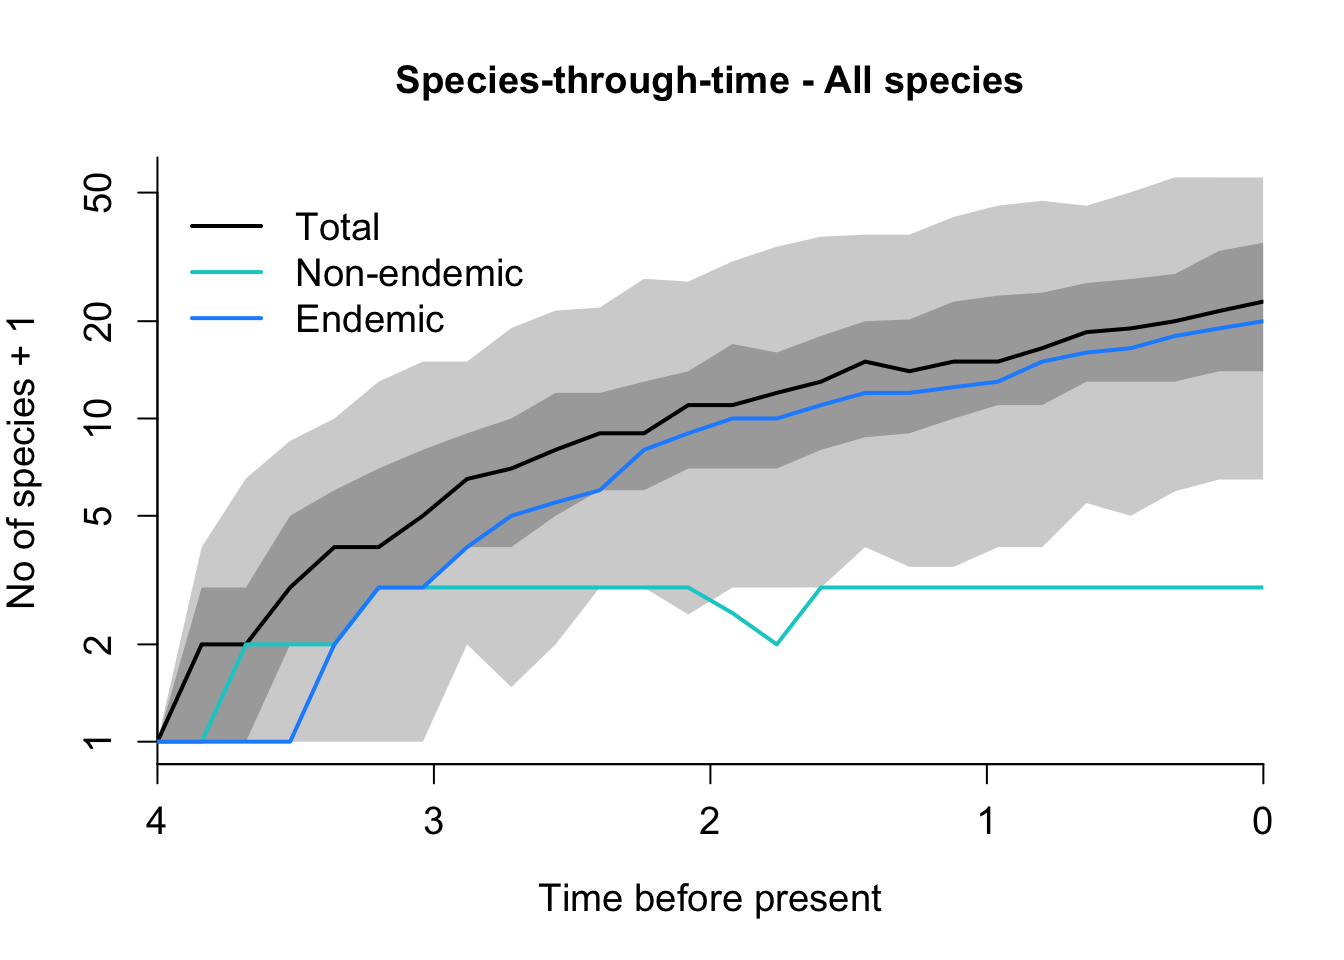
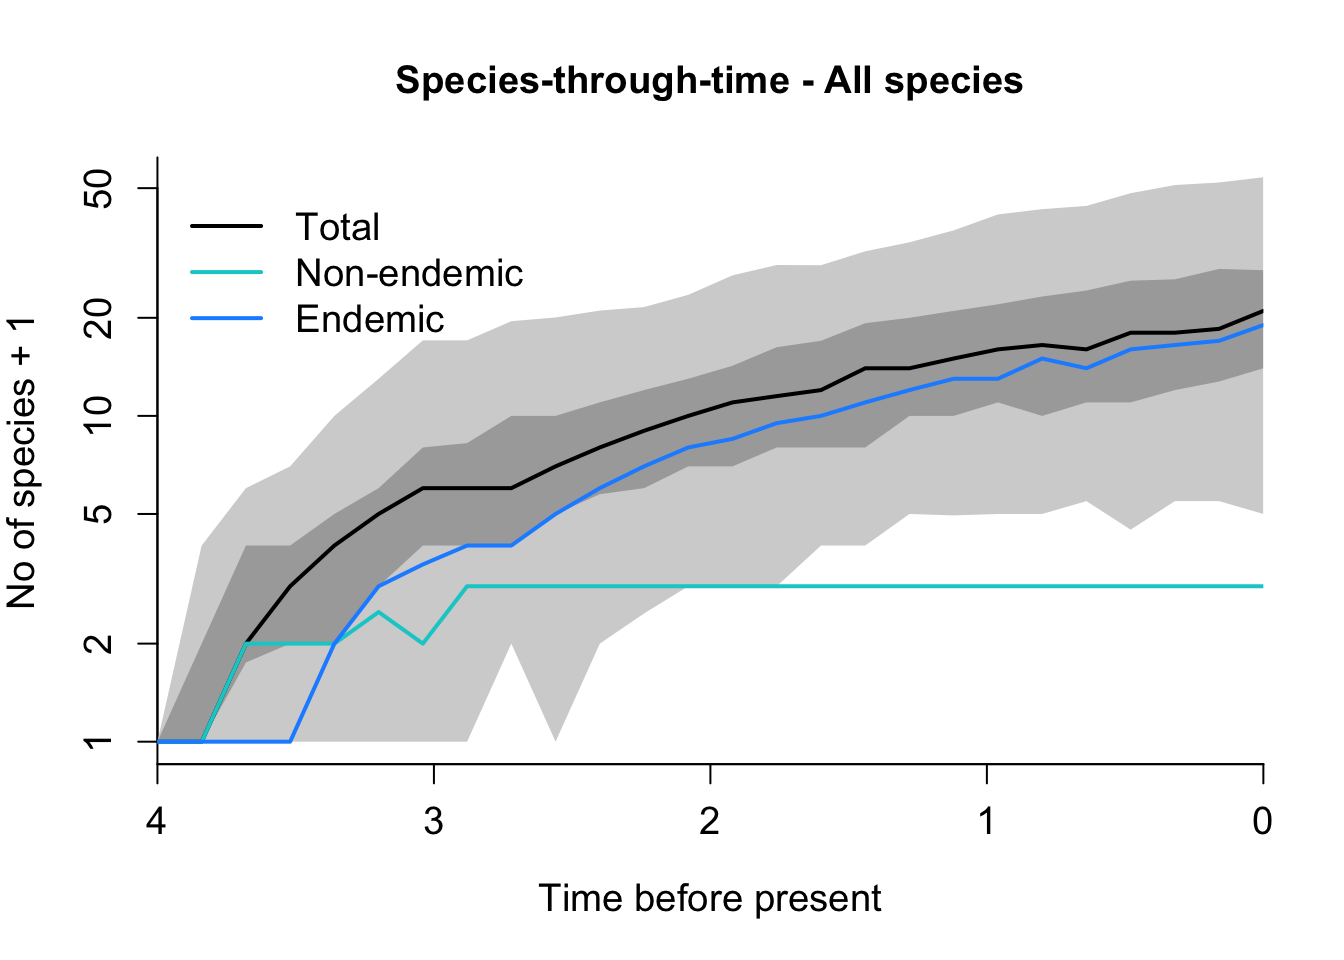
Built site for gh-pages

diff --git a/answers.html b/answers.html
@@ -506,7 +506,7 @@ pre > code.sourceCode > span > a:first-child::before { text-decoration: underlin
 <p>Run simulations</p>
 <div class="cell">
 <div class="sourceCode cell-code" id="cb29"><pre class="sourceCode r code-with-copy"><code class="sourceCode r"><span id="cb29-1"><a href="#cb29-1" aria-hidden="true" tabindex="-1"></a>Insula_sims <span class="ot">&lt;-</span> <span class="fu">DAISIE_sim</span>(</span>
-<span id="cb29-2"><a href="#cb29-2" aria-hidden="true" tabindex="-1"></a>  <span class="at">time =</span> <span class="dv">4</span>,</span>
+<span id="cb29-2"><a href="#cb29-2" aria-hidden="true" tabindex="-1"></a>  <span class="at">time =</span> <span class="dv">5</span>,</span>
 <span id="cb29-3"><a href="#cb29-3" aria-hidden="true" tabindex="-1"></a>  <span class="at">M =</span> <span class="dv">1000</span>,</span>
 <span id="cb29-4"><a href="#cb29-4" aria-hidden="true" tabindex="-1"></a>  <span class="at">pars =</span> <span class="fu">as.numeric</span>(M3[<span class="dv">1</span><span class="sc">:</span><span class="dv">5</span>]),</span>
 <span id="cb29-5"><a href="#cb29-5" aria-hidden="true" tabindex="-1"></a>  <span class="at">replicates =</span> <span class="dv">100</span>,</span>
